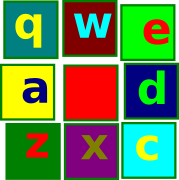
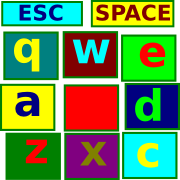
move menus to playinfo_s, and change g.m_dict to g.m_list data type.

diff --git a/trunk/ wormstory/lib/page.py b/trunk/ wormstory/lib/page.py
@@ -6,9 +6,6 @@ class page(object):
 		self.g = g
 		self.clock = time.Clock()
 		self.mark_time = 2
-		# Set black.
-		self.black_s = Surface((800,600))
-		self.black_s.fill((0,0,0))
 		
 	def mark_page(self):
 		while self.mark_time:
@@ -30,7 +27,7 @@ class page(object):
 		while self.mark_time:	
 			self.clock.tick(1)
 			self.mark_time -= 1
-			self.g.screen.blit(self.black_s, (0,0))
+			self.g.screen.blit(self.g.s.black_s, (0,0))
 			self.g.screen.blit(
 				self.g.game_info_font.render('Copyleft (cl) by', 1, 
 						(100,100,100)),(200,340))
@@ -50,20 +47,20 @@ class page(object):
 			self.g.s.draw()
 			
 			# black the playarea_s
-			self.g.s.playarea_s.blit(self.black_s, (0,0))
+			self.g.s.playarea_s.blit(self.g.s.black_s, (0,0))
 			
 			self.g.s.playarea_s.blit(
 				self.g.game_info_font.render('Dancing Block', 1, (180,0,0)), (40,150))
 
 			# clear the menu_s.
-			self.g.s.menu_s.blit(self.black_s, (0,0))
+			self.g.s.menu_s.blit(self.g.s.black_s, (0,0))
 			self.g.m_m.update()
-			self.g.s.playarea_s.blit(self.g.s.menu_s, (0, 250))
+			self.g.s.playinfo_s.blit(self.g.s.menu_s, (0, 420))
 			
 			# buttons take one and reset it.
 			if self.g.d.io.all_buttons[8]['down']:
 				self.g.d.io.all_buttons[8]['down'] = 0
-				return self.g.m_dict[self.g.menu_choice_id].gotopage
+				return self.g.m_list[self.g.menu_choice_id].gotopage
 						
 #			if joystick.get_count():
 #				self.g.s.playarea_s.blit(
@@ -109,7 +106,7 @@ class page(object):
 		while self.mark_time:
 			self.clock.tick(1)
 			self.mark_time -= 1
-			self.g.screen.blit(self.black_s, (0,0))
+			self.g.screen.blit(self.g.s.black_s, (0,0))
 			self.g.screen.blit(
 				self.g.game_info_font.render('Thank You.', 1, 
 						(100,100,100)),(200,340))
@@ -121,7 +118,10 @@ class page(object):
 		while self.mark_time:
 			self.clock.tick(1)
 			self.mark_time -= 1
-			self.g.screen.blit(self.black_s, (0,0))
+			self.g.screen.blit(self.g.s.black_s, (0,0))
+			self.g.screen.blit(
+				self.g.cow_logo_image.convert_alpha(), (250,100)
+				)
 			self.g.screen.blit(
 				self.g.game_info_font.render('bye !', 1,
 						(100,100,100)), (200,340))
@@ -135,20 +135,20 @@ class page(object):
 			self.g.s.draw()
 			
 			# black the playarea_s
-			self.g.s.playarea_s.blit(self.black_s, (0,0))
+			self.g.s.playarea_s.blit(self.g.s.black_s, (0,0))
 			
 #			self.g.s.playarea_s.blit(
 #				self.g.game_info_font.render('Dancing Block', 1, (180,0,0)), (40,150))
 
 			# clear the menu_s.
-			self.g.s.menu_s.blit(self.black_s, (0,0))
+			self.g.s.menu_s.blit(self.g.s.black_s, (0,0))
 			self.g.c_m.update()
-			self.g.s.playarea_s.blit(self.g.s.menu_s, (0, 250))
+			self.g.s.playinfo_s.blit(self.g.s.menu_s, (0, 420))
 		
 			# Oh! this isn't my taste.
 			if self.g.d.io.all_buttons[8]['down']:
 				self.g.d.io.all_buttons[8]['down'] = 0
-				print 'mcid: %s' %self.g.menu_choice_id
-				return self.g.m_dict[self.g.menu_choice_id].gotopage
+#				print 'mcid: %s' %self.g.menu_choice_id
+				return self.g.m_list[self.g.menu_choice_id].gotopage
 			
 			display.flip()

diff --git a/trunk/ wormstory/lib/menu_items.py b/trunk/ wormstory/lib/menu_items.py
@@ -3,38 +3,35 @@
 from pygame import *
 
 class menu_item(sprite.Sprite):
-	def __init__(self, g, title, location):
+	def __init__(self, g, title, location, gotopage):
 		sprite.Sprite.__init__(self)
 		self.g = g
 		self.title = title
+		self.gotopage = gotopage
 		self.non_active_color = (0,100,0)
 		self.active_color = (0, 150, 0)
 		self.message_title(self.non_active_color)
 		self.rect = self.image.get_rect(topleft=location)
 	def message_title(self, color):
-		self.image = self.g.game_info_font.render(self.title, 1, color)
+		self.image = self.g.menu_info_font.render(self.title, 1, color)
 	def update(self):
-		if self.g.m_dict[self.g.menu_choice_id] == self:
+		if self.g.m_list[self.g.menu_choice_id] == self:
 			self.message_title(self.active_color)
 		else:
 			self.message_title(self.non_active_color)
 
 class menu_play(menu_item):
 	def __init__(self, g, gotopage, location):
-		self.gotopage = gotopage
-		menu_item.__init__(self, g, 'PLAY', location)
+		menu_item.__init__(self, g, 'PLAY', location, gotopage)
 
 class menu_configure(menu_item):
 	def __init__(self, g, gotopage, location):
-		self.gotopage = gotopage
-		menu_item.__init__(self, g, 'CONFIGURE', location)
+		menu_item.__init__(self, g, 'CONFIGURE', location, gotopage)
 
 class menu_quit(menu_item):
 	def __init__(self, g, gotopage, location):
-		self.gotopage = gotopage
-		menu_item.__init__(self, g, 'QUIT', location)
+		menu_item.__init__(self, g, 'QUIT', location, gotopage)
 		
 class menu_back(menu_item):
 	def __init__(self, g, gotopage, location):
-		self.gotopage = gotopage
-		menu_item.__init__(self, g, 'BACK', location)
+		menu_item.__init__(self, g, 'BACK', location, gotopage)

diff --git a/trunk/ wormstory/lib/menu.py b/trunk/ wormstory/lib/menu.py
@@ -8,8 +8,8 @@ class menu(object):
 	def set_menu_group(self):
 		self.g.menu_group.empty()
 		self._add_item()
-		for m in self.g.m_dict.keys():
-			self.g.menu_group.add(self.g.m_dict[m])
+		for m in self.g.m_list:
+			self.g.menu_group.add(m)
 
 	def _add_item(self):
 		pass
@@ -17,15 +17,15 @@ class menu(object):
 	def update(self):
 		# Is it a good idea. everytime to recreate the menubar ? 
 		self.set_menu_group()
-		if self.g.menu_choice_id < len(self.g.menu_group.sprites()):
+		if self.g.menu_choice_id < (len(self.g.menu_group.sprites()) - 1):
 			if self.g.d.io.all_buttons[6]['down']:
 				self.g.menu_choice_id += 1
-		if self.g.menu_choice_id > 1:
+		if self.g.menu_choice_id > 0:
 			if self.g.d.io.all_buttons[1]['down']:
 				self.g.menu_choice_id -= 1
 				
 		self.g.menu_group.update()
 		self.g.menu_group.draw(self.g.s.menu_s)
-		self.g.s.menu_s.blit(
+		self.g.s.playarea_s.blit(
 			self.g.game_info_small_font.render('http://www.milk2cows.com/dancingblock', 1,
-				(0,0,128)), (40,320))
+				(0,0,128)), (40,570))

diff --git a/trunk/ wormstory/lib/configure_menu.py b/trunk/ wormstory/lib/configure_menu.py
@@ -1,9 +1,12 @@
 # Hi I am configure menu
 
 from menu import menu
-from menu_items import menu_back, menu_play
+from menu_items import menu_back, menu_play, menu_quit
 
 class configure_menu(menu):
 	def _add_item(self):						
-		self.g.m_dict = { 1:menu_play(self.g, self.g.GAME_PAGE, (120,200)),
-						2:menu_back(self.g, self.g.MAIN_PAGE, (120,250)) }
+		self.g.m_list = [ menu_play(self.g, self.g.GAME_PAGE, (10,60)),
+						menu_back(self.g, self.g.MAIN_PAGE, (10,90)),
+						menu_quit(self.g, self.g.QUIT_PAGE, (10,120))
+						]
+						

diff --git a/trunk/ wormstory/lib/gobj.py b/trunk/ wormstory/lib/gobj.py
@@ -47,6 +47,7 @@ class gobj(object):
 
 		# load fonts
 		self.game_info_font = font.Font(self.u.load_font('graffiti.ttf'), 36)
+		self.menu_info_font = font.Font(self.u.load_font('graffiti.ttf'), 24)
 		self.game_info_small_font = font.Font(self.u.load_font('station.ttf'), 18)
 		self.sys_font = font.Font(None, 56) 
 		
@@ -75,7 +76,7 @@ class gobj(object):
 		# init menus Obj.
 		self.m_m = main_menu(self)
 		self.c_m = configure_menu(self)
-		self.m_dict = {}
+		self.m_list = []
 	
 	def event_update(self):
 		events = event.get()

diff --git a/trunk/ wormstory/lib/main_menu.py b/trunk/ wormstory/lib/main_menu.py
@@ -5,6 +5,6 @@ from menu import menu
 
 class main_menu(menu):
 	def _add_item(self):
-		self.g.m_dict = { 1:menu_play(self.g, self.g.GAME_PAGE, (120,0)),
-						2:menu_configure(self.g, self.g.CONFIGURE_PAGE, (120,50)),
-						3:menu_quit(self.g, self.g.QUIT_PAGE, (120,100)) }
+		self.g.m_list = [ menu_play(self.g, self.g.GAME_PAGE, (10,60)),
+						menu_configure(self.g, self.g.CONFIGURE_PAGE, (10,90)),
+						menu_quit(self.g, self.g.QUIT_PAGE, (10,120)) ]

diff --git a/trunk/ wormstory/lib/scene.py b/trunk/ wormstory/lib/scene.py
@@ -10,6 +10,10 @@ class scene(object):
 		self.playinfo_s = Surface((200, 600))
 		self.menu_s = Surface((600, 350))
 		
+		# Set black.
+		self.black_s = Surface((800,600))
+		self.black_s.fill((0,0,0))
+		
 	def draw(self):
 		self.g.screen.blit(self.playarea_s, (0,0))
 		self.g.screen.blit(self.playinfo_s, (600,0))
